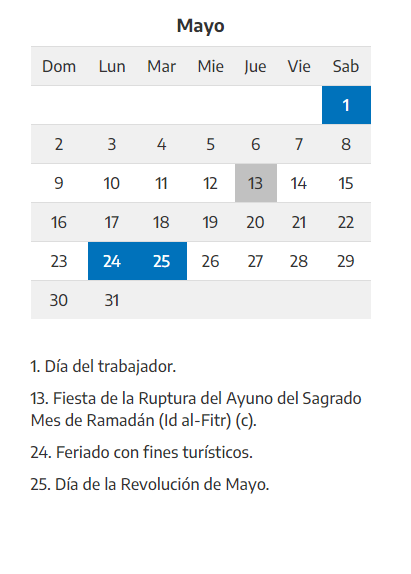
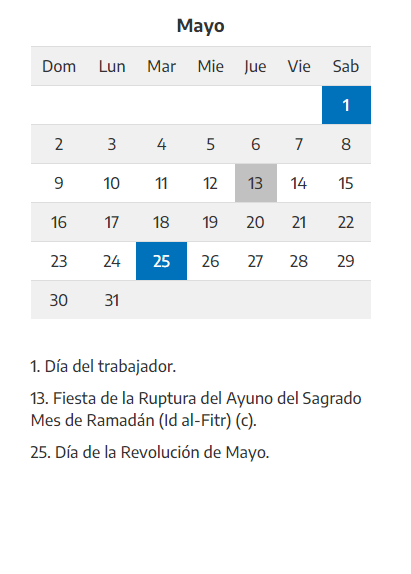
Removed feriado puente

Changed region(s): [[0.0584, 0.8293, 0.6423, 0.8589], [0.0876, 0.77, 0.6423, 0.7997], [0.2044, 0.4146, 0.3504, 0.5035]]

diff --git a/feriados.js b/feriados.js
@@ -47,12 +47,6 @@ module.exports = [
     weekday: 'sábado',
   },
   {
-    date: '2021-05-24',
-    name: 'Feriado con fines turísticos',
-    weekday: 'lunes',
-    nextTo: '4 días no laborables, junto con el sábado 22, el domingo 23 y el martes 25',
-  },
-  {
     date: '2021-05-25',
     name: 'Día de la Revolución de Mayo',
     type: 'inamovible',
